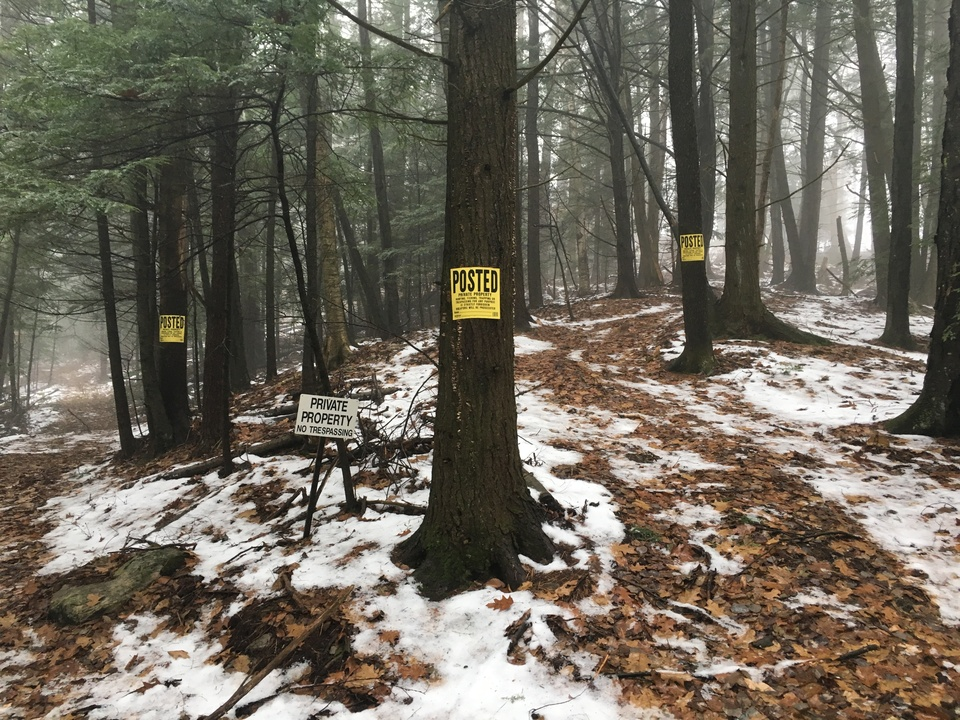
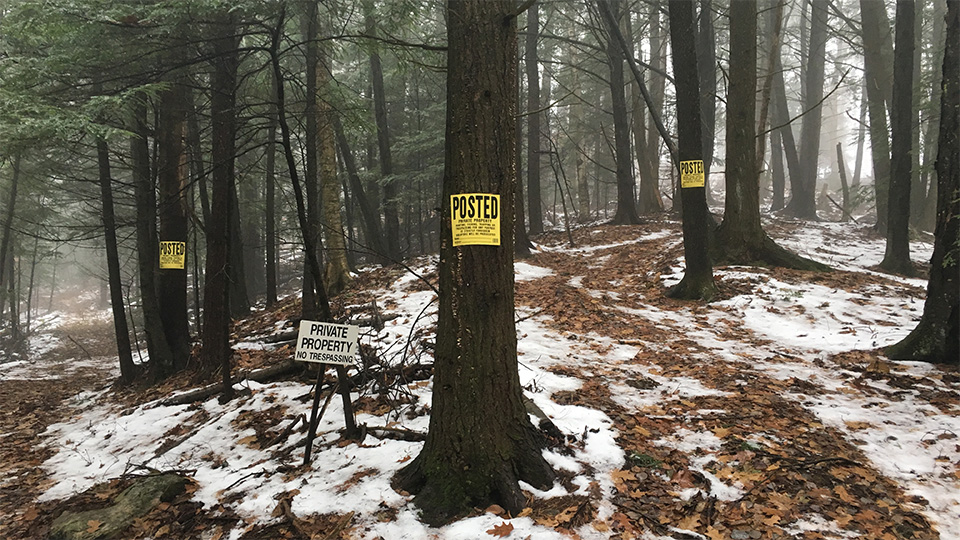
updated image for ledelle moe

diff --git a/portfolio.html b/portfolio.html
@@ -87,8 +87,8 @@
             <p class="tombstone">2017 – 2022 • photography and animation</p>
           </div>
           <div class="folio">
-            <img class="picture" src="../img/portfolio/interference.jpg" alt="Still image of a black rectangle with a colored gradient border with the text 'placeholder...' at the center.">
-            <img class="picture gif" src="../img/portfolio/interference.gif" alt="Animation of a black rectangle with a colored gradient border with the text 'placeholder...' at the center.">
+            <img class="picture" src="../img/portfolio/interference.jpg" alt="A photograph of trees in a forest surrounded by mist and snow. Signs fixed to the trees read 'Posted' and 'No Trespassing.'">
+            <img class="picture gif" src="../img/portfolio/interference.gif" alt="An animation of photographs scrolling across the frame, showing real and fake animals riding in pick-up trucks.">
           </div>
           <div class="text">
             <p>A photo series illustrating interactions, interventions, and interfaces between human and non-human life forms on the visible landscape.</p>
@@ -100,8 +100,8 @@
             <p class="tombstone">Spring 2025 • animation and media installation</p>
           </div>
           <div class="folio">
-            <img class="picture gif" src="../img/portfolio/2025-02-24_bell_950x540x10.gif" alt="Still image of a black rectangle with a colored gradient border with the text 'placeholder...' at the center.">
-            <img class="picture gif" src="../img/portfolio/C0006_12-5fps.gif" alt="Animation of a black rectangle with a colored gradient border with the text 'placeholder...' at the center.">
+            <img class="picture gif" src="../img/portfolio/recasting_01.gif" alt="An animation of ink rubbings taken from a large bronze bell. The rubbings are magnified to show detailed decorations.">
+            <img class="picture gif" src="../img/portfolio/C0006_12-5fps.gif" alt="Footage of a museum gallery, with a large bronze bell in the foreground and a projection behind it, showing magnified details of the bell.">
           </div>
           <div class="text">
             <p>A projected animation of ink rubbings taken from a 12th-century Song Dynasty bronze bell. The projection magnifies decorations and narrative scenes cast around the sides of the bell. Installed at the Metropolitan Museum of Art for the exhibition, <i>Recasting the Past</i>.</p>
